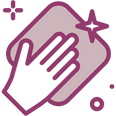
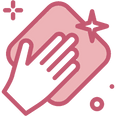
Switch to baby pink Rose Canopy palette
Deep rose header and hero fading to blush, white logo, rose vines,
pink story arch and care icons, deep rose ink for readable text.

Claude-Session: https://claude.ai/code/session_01LHg19mSuEtXYkrVU8NCX6H

diff --git a/styles.css b/styles.css
@@ -1,15 +1,16 @@
-/* Palette taken from the brand artwork: dusty mauve ground, plum line work */
+/* Palette: baby pink tones (CD5E77, E17F93, EE959E, EBA7AC, F4C2C2),
+   with a deep rose ink so small text stays readable */
 :root {
-  --bg: #faf6f7;
-  --ink: #3b2232;
-  --muted: #7d6672;
-  --plum: #90416f;
-  --mauve: #cab5ba;
-  --rose: #efe2e5;
-  --lilac: #e6dce8;
-  --petal: #f4eaec;
-  --dusk: #ddcbd0;
-  --line: rgba(59, 34, 50, 0.1);
+  --bg: #fff7f7;
+  --ink: #6e2a3d;
+  --muted: #9a5a6b;
+  --plum: #cd5e77;
+  --mauve: #eba7ac;
+  --rose: #fbe3e3;
+  --lilac: #f8dcdc;
+  --petal: #fdeeee;
+  --dusk: #f4c2c2;
+  --line: rgba(110, 42, 61, 0.12);
   --radius: 18px;
   --display: "Cormorant Garamond", Georgia, serif;
   --caps: "Cormorant SC", "Cormorant Garamond", Georgia, serif;
@@ -47,7 +48,7 @@ img, svg { display: block; max-width: 100%; height: auto; }
   grid-template-columns: 1fr auto 1fr;
   align-items: center;
   padding: 16px 40px;
-  background: rgba(250, 246, 247, 0.92);
+  background: rgba(255, 247, 247, 0.92);
   backdrop-filter: blur(8px);
   border-bottom: 1px solid var(--line);
 }
@@ -423,25 +424,24 @@ h1 em, h2 em { color: var(--plum); }
 }
 
 /* ------------------------------------------------------------------
-   Pink enchanted forest: a blossom wood at dusk. Deep aubergine canopy,
-   mauve mist, rose-gold light and blush fireflies, with a whisper of
-   muted sage in the vines. Plum and mauve remain the brand colors.
+   Rose canopy: a baby-pink blossom wood. Deep rose overhead fading to
+   blush, soft white light and fireflies, rose vines hanging into the page.
    ------------------------------------------------------------------ */
 :root {
-  --wood-deep: #3f1a34;     /* deep logo plum */
-  --wood: #66294f;          /* logo plum, shaded */
-  --wood-mid: #90416f;      /* logo plum #90416f */
-  --mist: #cab5ba;          /* brand mauve, as fog */
-  --rosegold: #f2d3c4;      /* light through the leaves */
-  --blush: #f4dde4;
-  --cream: #f6eee6;
+  --wood-deep: #cd5e77;     /* deepest rose */
+  --wood: #e17f93;
+  --wood-mid: #ee959e;
+  --mist: #eba7ac;
+  --rosegold: #ffe9e6;      /* light through the leaves */
+  --blush: #fff3f1;
+  --cream: #fffaf8;
   --leaf: #8f9a88;          /* muted sage, used sparingly */
 }
 
 body {
   background:
-    radial-gradient(1200px 600px at 85% 0%, rgba(202, 181, 186, 0.22), transparent 60%),
-    radial-gradient(900px 500px at 0% 45%, rgba(242, 211, 196, 0.18), transparent 60%),
+    radial-gradient(1200px 600px at 85% 0%, rgba(244, 194, 194, 0.3), transparent 60%),
+    radial-gradient(900px 500px at 0% 45%, rgba(255, 233, 230, 0.4), transparent 60%),
     var(--bg);
 }
 
@@ -456,10 +456,10 @@ body {
   position: absolute; inset: -20% -10% 0 -10%;
   z-index: 0;
   background:
-    linear-gradient(115deg, transparent 38%, rgba(242, 211, 196, 0.16) 42%, transparent 47%),
-    linear-gradient(110deg, transparent 52%, rgba(242, 211, 196, 0.10) 55%, transparent 60%),
-    linear-gradient(120deg, transparent 63%, rgba(242, 211, 196, 0.13) 66%, transparent 71%),
-    linear-gradient(105deg, transparent 22%, rgba(242, 211, 196, 0.07) 25%, transparent 30%);
+    linear-gradient(115deg, transparent 38%, rgba(255, 236, 232, 0.16) 42%, transparent 47%),
+    linear-gradient(110deg, transparent 52%, rgba(255, 236, 232, 0.10) 55%, transparent 60%),
+    linear-gradient(120deg, transparent 63%, rgba(255, 236, 232, 0.13) 66%, transparent 71%),
+    linear-gradient(105deg, transparent 22%, rgba(255, 236, 232, 0.07) 25%, transparent 30%);
   filter: blur(6px);
   animation: shafts 14s ease-in-out infinite alternate;
 }
@@ -473,44 +473,43 @@ body {
 
 /* Header melts into the canopy */
 .site-header {
-  background: rgba(63, 26, 52, 0.92);
-  border-bottom: 1px solid rgba(242, 211, 196, 0.1);
+  background: rgba(205, 94, 119, 0.96);
+  border-bottom: 1px solid rgba(255, 255, 255, 0.15);
   color: var(--cream);
 }
 .site-header .wordmark { color: var(--blush); }
 .nav a:hover { color: var(--rosegold); }
 .menu-toggle span { background: var(--cream); }
 @media (max-width: 860px) {
-  .nav-left { background: var(--wood-deep); border-bottom-color: rgba(242, 211, 196, 0.1); }
+  .nav-left { background: var(--wood-deep); border-bottom-color: rgba(255, 255, 255, 0.15); }
 }
 
 /* Hero: a blossom clearing at dusk, the arch glowing like a doorway */
 .hero {
   background:
-    radial-gradient(520px 460px at 72% 48%, rgba(242, 211, 196, 0.34), transparent 70%),
-    radial-gradient(1100px 380px at 50% 115%, rgba(202, 181, 186, 0.55), transparent 70%),
-    linear-gradient(180deg, var(--wood-deep) 0%, var(--wood) 55%, var(--wood-mid) 100%);
+    radial-gradient(520px 460px at 72% 48%, rgba(255, 236, 232, 0.4), transparent 70%),
+    linear-gradient(180deg, var(--wood-deep) 0%, var(--wood) 50%, var(--wood-mid) 100%);
   color: var(--cream);
   margin-bottom: 0;
 }
 .hero .eyebrow, .hero h1 em { color: var(--rosegold); }
-.hero h1 { color: #fff7f2; text-shadow: 0 2px 30px rgba(0, 0, 0, 0.3); }
-.hero .lede { color: rgba(246, 238, 230, 0.8); }
+.hero h1 { color: #fff; text-shadow: 0 2px 24px rgba(140, 40, 70, 0.25); }
+.hero .lede { color: rgba(255, 250, 248, 0.92); }
 .hero .btn, .newsletter .btn {
   background: var(--cream);
   border-color: var(--cream);
   color: var(--wood-deep);
-  box-shadow: 0 10px 30px rgba(242, 211, 196, 0.2);
+  box-shadow: 0 10px 30px rgba(140, 40, 70, 0.18);
 }
 
-/* Logo in the brand's light mauve, with a soft rose-gold glow */
+/* Logo in soft white, with a gentle glow */
 .hero-logo, .story-hero-art {
-  filter: drop-shadow(0 0 14px rgba(242, 211, 196, 0.45));
+  filter: drop-shadow(0 0 14px rgba(255, 255, 255, 0.4));
   animation: breathe 6s ease-in-out infinite;
 }
 @keyframes breathe {
-  0%, 100% { filter: drop-shadow(0 0 10px rgba(242, 211, 196, 0.35)); }
-  50%      { filter: drop-shadow(0 0 22px rgba(242, 211, 196, 0.65)); }
+  0%, 100% { filter: drop-shadow(0 0 10px rgba(255, 255, 255, 0.3)); }
+  50%      { filter: drop-shadow(0 0 22px rgba(255, 255, 255, 0.6)); }
 }
 .footer-brand img { opacity: 0.9; }
 
@@ -572,7 +571,7 @@ body {
   content: "";
   position: absolute; left: 50%; top: -40px; width: min(520px, 100%); height: 320px;
   transform: translateX(-50%);
-  background: radial-gradient(closest-side, rgba(242, 211, 196, 0.6), transparent);
+  background: radial-gradient(closest-side, rgba(244, 194, 194, 0.55), transparent);
   z-index: -1;
 }
 .intro h2::after {
@@ -586,16 +585,16 @@ body {
 /* Products sit in gothic window frames */
 .product-image {
   border-radius: 50% 50% var(--radius) var(--radius) / 22% 22% var(--radius) var(--radius);
-  box-shadow: 0 0 0 1px rgba(107, 69, 96, 0.18), 0 18px 40px -18px rgba(61, 35, 53, 0.55);
+  box-shadow: 0 0 0 1px rgba(205, 94, 119, 0.2), 0 18px 40px -18px rgba(205, 94, 119, 0.5);
 }
 .pdp-image {
   border-radius: 50% 50% var(--radius) var(--radius) / 16% 16% var(--radius) var(--radius);
-  box-shadow: 0 0 0 1px rgba(107, 69, 96, 0.18), 0 24px 60px -24px rgba(61, 35, 53, 0.6);
+  box-shadow: 0 0 0 1px rgba(205, 94, 119, 0.2), 0 24px 60px -24px rgba(205, 94, 119, 0.55);
 }
 .product-image::after {
   content: "";
   position: absolute; inset: 0;
-  background: linear-gradient(180deg, rgba(242, 211, 196, 0.2), transparent 35%);
+  background: linear-gradient(180deg, rgba(255, 236, 232, 0.2), transparent 35%);
   pointer-events: none;
 }
 #collection .section-head { justify-content: center; }
@@ -605,18 +604,20 @@ body {
   gap: 40px 32px;
 }
 
-.story { box-shadow: 0 30px 60px -30px rgba(61, 35, 53, 0.5); }
+.story { box-shadow: 0 30px 60px -30px rgba(205, 94, 119, 0.45); }
+.story .btn-outline { color: var(--ink); border-color: var(--ink); }
+.story .btn-outline:hover { background: var(--ink); color: #fff; }
 
 /* Newsletter and footer: back under the canopy */
 .newsletter {
   background:
-    radial-gradient(600px 300px at 50% 0%, rgba(242, 211, 196, 0.22), transparent 70%),
+    radial-gradient(600px 300px at 50% 0%, rgba(255, 236, 232, 0.3), transparent 70%),
     linear-gradient(180deg, var(--wood-mid), var(--wood-deep));
   color: var(--cream);
 }
-.newsletter h2 { color: #fff7f2; }
-.newsletter p { color: rgba(246, 238, 230, 0.78); }
-.newsletter input { border-color: rgba(242, 211, 196, 0.5); }
+.newsletter h2 { color: #fff; }
+.newsletter p { color: rgba(255, 250, 248, 0.9); }
+.newsletter input { border-color: rgba(255, 255, 255, 0.6); }
 
 .site-footer {
   max-width: none;
@@ -624,19 +625,18 @@ body {
   padding-left: max(40px, calc((100% - 1160px) / 2));
   padding-right: max(40px, calc((100% - 1160px) / 2));
 }
-.footer-cols p, .footer-cols a, .copyright { color: rgba(246, 238, 230, 0.62); }
-.footer-cols h3, .footer-cols a:hover { color: var(--rosegold); }
+.footer-cols p, .footer-cols a, .copyright { color: rgba(255, 250, 248, 0.85); }
+.footer-cols h3, .footer-cols a:hover { color: #fff; }
 
 /* Our Story page hero joins the wood */
 .story-hero {
   background:
-    radial-gradient(460px 420px at 78% 55%, rgba(242, 211, 196, 0.3), transparent 70%),
-    radial-gradient(1000px 300px at 50% 120%, rgba(202, 181, 186, 0.5), transparent 70%),
-    linear-gradient(180deg, var(--wood-deep), var(--wood-mid));
+    radial-gradient(460px 420px at 78% 55%, rgba(255, 236, 232, 0.35), transparent 70%),
+    linear-gradient(180deg, var(--wood-deep), var(--wood) 55%, var(--wood-mid));
   color: var(--cream);
   margin-bottom: 0;
 }
-.story-hero h1 { color: #fff7f2; }
+.story-hero h1 { color: #fff; }
 .story-welcome { color: var(--rosegold); }
 .story-hero-art {
   object-fit: contain;

diff --git a/index.html b/index.html
@@ -38,7 +38,7 @@
           <p class="lede">Handmade chainmaille jewelry with crystals, stones and charms.</p>
           <a href="#collection" class="btn">Shop the collection</a>
         </div>
-        <img class="hero-logo" src="assets/logo-mauve.png" alt="Chainber of Secrets" width="779" height="1142">
+        <img class="hero-logo" src="assets/logo-light.png" alt="Chainber of Secrets" width="779" height="1142">
       </div>
     </section>
     <div class="forest-edge" aria-hidden="true"></div>
@@ -81,7 +81,7 @@
   <footer class="site-footer">
     <div class="footer-cols">
       <div class="footer-brand">
-        <img src="assets/logo-mauve.png" alt="Chainber of Secrets" width="779" height="1142">
+        <img src="assets/logo-light.png" alt="Chainber of Secrets" width="779" height="1142">
         <p>Handmade chainmaille jewelry.</p>
       </div>
       <div>

diff --git a/our-story.html b/our-story.html
@@ -37,7 +37,7 @@
           <p class="story-welcome">Welcome to the Chainber of Secrets.</p>
           <p class="story-tagline">A little edgy, a little whimsical, and never just one thing.</p>
         </div>
-        <img class="story-hero-art" src="assets/logo-mauve.png" alt="" width="779" height="1142">
+        <img class="story-hero-art" src="assets/logo-light.png" alt="" width="779" height="1142">
       </div>
     </section>
     <div class="forest-edge" aria-hidden="true"></div>
@@ -68,7 +68,7 @@
   <footer class="site-footer">
     <div class="footer-cols">
       <div class="footer-brand">
-        <img src="assets/logo-mauve.png" alt="Chainber of Secrets" width="779" height="1142">
+        <img src="assets/logo-light.png" alt="Chainber of Secrets" width="779" height="1142">
         <p>Handmade chainmaille jewelry.</p>
       </div>
       <div>

diff --git a/jewellery-care.html b/jewellery-care.html
@@ -36,7 +36,7 @@
           <h1 class="care-title">Jewellery care</h1>
           <p class="care-sub">Tips</p>
         </div>
-        <img class="story-hero-art" src="assets/logo-mauve.png" alt="" width="779" height="1142">
+        <img class="story-hero-art" src="assets/logo-light.png" alt="" width="779" height="1142">
       </div>
     </section>
     <div class="forest-edge" aria-hidden="true"></div>
@@ -58,7 +58,7 @@
   <footer class="site-footer">
     <div class="footer-cols">
       <div class="footer-brand">
-        <img src="assets/logo-mauve.png" alt="Chainber of Secrets" width="779" height="1142">
+        <img src="assets/logo-light.png" alt="Chainber of Secrets" width="779" height="1142">
         <p>Handmade chainmaille jewelry.</p>
       </div>
       <div>

diff --git a/product.html b/product.html
@@ -57,7 +57,7 @@
   <footer class="site-footer">
     <div class="footer-cols">
       <div class="footer-brand">
-        <img src="assets/logo-mauve.png" alt="Chainber of Secrets" width="779" height="1142">
+        <img src="assets/logo-light.png" alt="Chainber of Secrets" width="779" height="1142">
         <p>Handmade chainmaille jewelry.</p>
       </div>
       <div>

diff --git a/CLAUDE.md b/CLAUDE.md
@@ -13,5 +13,6 @@ Hosted on Vercel at https://chainberofsecrets.com, auto-deployed from `main` on 
 ## Where things live
 - `products.js`: product catalog (name, price, image, materials, Stripe link).
 - `index.html`, `product.html` (`product.html#<id>`), `our-story.html`.
-- `styles.css`: base styles, then the "Pink enchanted forest" theme section.
-- `assets/vines-back.webp`, `assets/vines-front.webp`: pre-rendered hanging vines.
+- `styles.css`: base styles (baby pink palette), then the "Rose canopy" theme section.
+- `assets/vines-back.webp`, `assets/vines-front.webp`: pre-rendered hanging vines (rose).
+- `assets/logo-light.png`: soft white logo used on the pink header/hero/footer.
